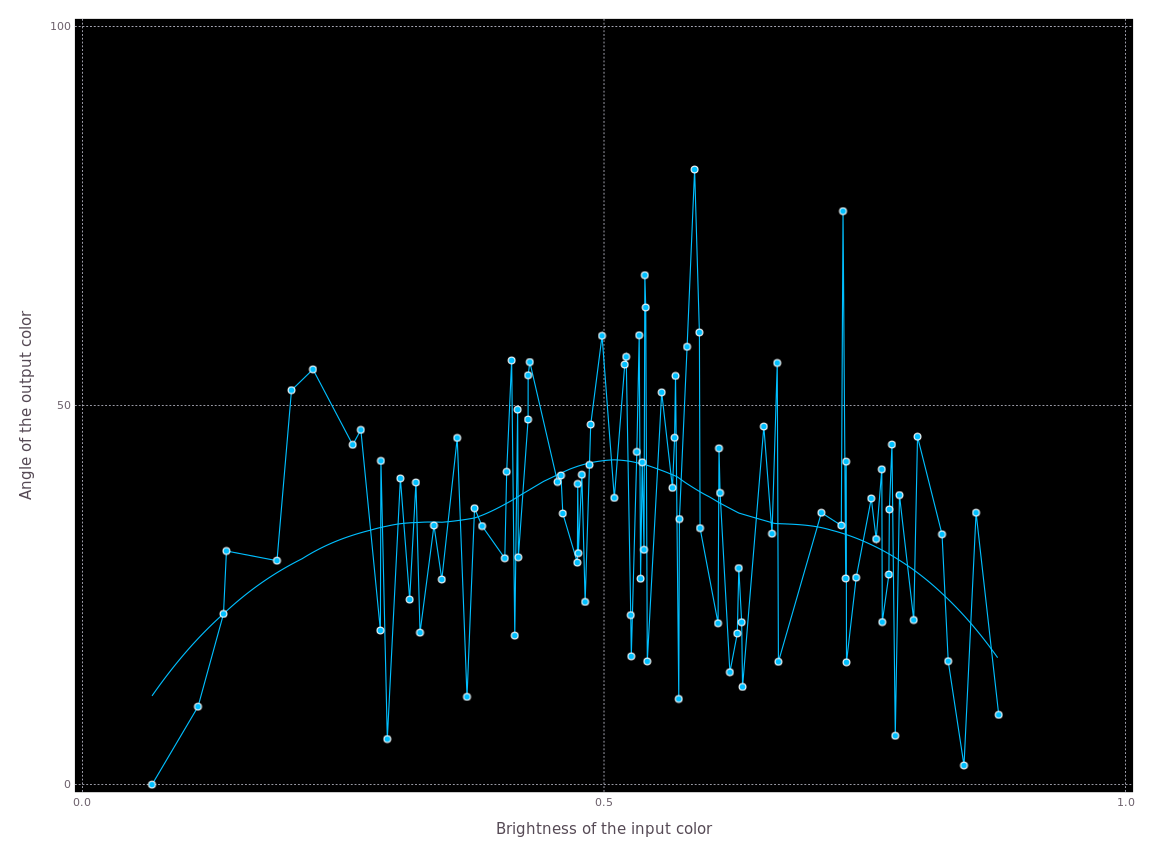
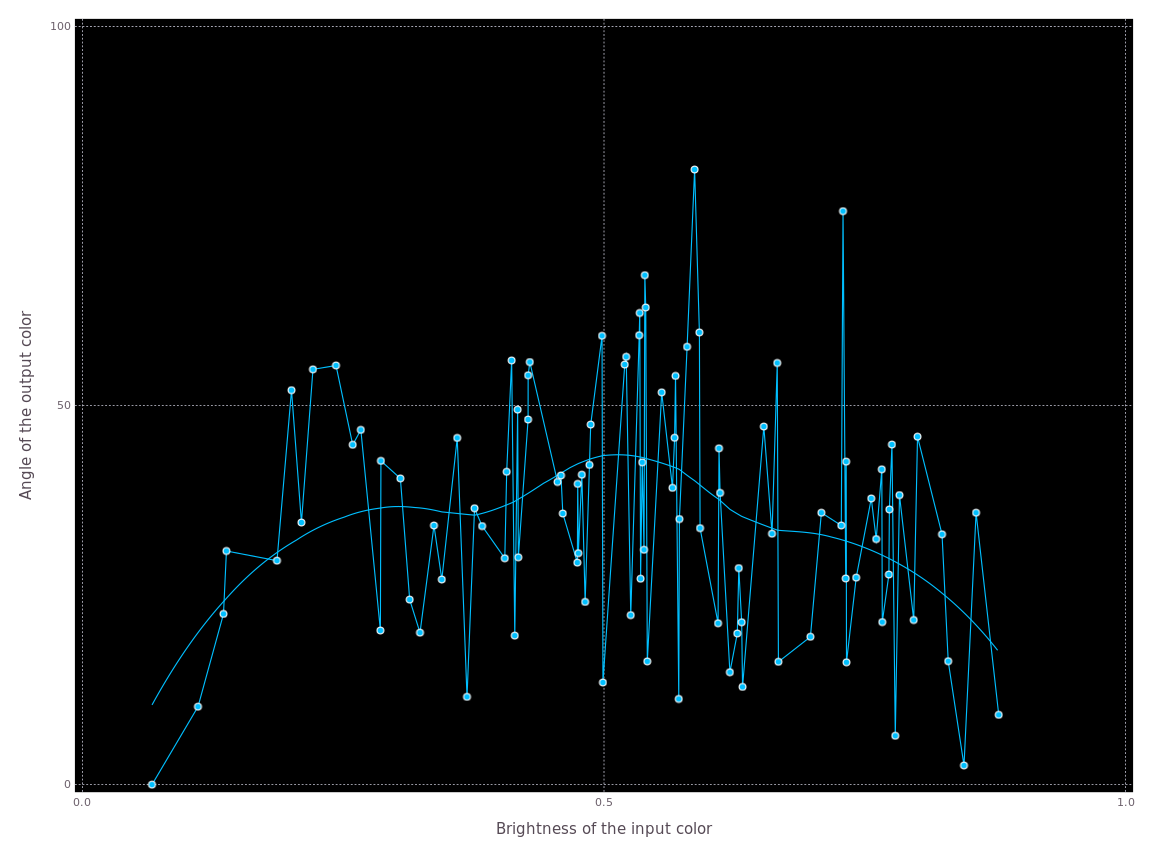
mainly math

diff --git a/HCGServer/Services/MathCore/ColorMath.cs b/HCGServer/Services/MathCore/ColorMath.cs
@@ -1,11 +1,13 @@
 using MathNet.Numerics.LinearAlgebra;
 using Microsoft.Extensions.Logging;
+using System.Collections.Generic;
 using System.Linq;
 using System;
 
 namespace HCGServer.Services.ColorMath
 {
     using static System.Math;
+    using static System.Convert;
     public class ColorMath : IColorMath
     {
         private static Random CSP = new Random();
@@ -36,19 +38,29 @@ namespace HCGServer.Services.ColorMath
                 try {
                     double lum = V.L2Norm() / Sqrt(3.0*(Pow(255, 2)));
                     double RefAngle = (COEF[0] * Pow((lum - COEF[1]), 4)) + (COEF[2] * Pow(lum, 3)) + (COEF[3] * Pow(lum, 2)) + (COEF[4] * (lum)) + (COEF[5]);
-                    double Angle = RefAngle + (Exp(Pow((CSP.NextDouble()-0.5), 2) * -7.5) * P * SIG);
+                    double Angle = 0;
 
-                    Vector<double> Axis = Vector<double>.Build.Dense(3);
+                    Matrix<double> ROMA = Matrix<double>.Build.Dense(3, 3);
                     Vector<double> OV = Vector<double>.Build.Dense(3);
+                    Vector<double> Axis = Vector<double>.Build.Dense(3);
+                    bool FT = true;
+
+                    if (V.Sum(e => Abs(e)) == 0) {
+                        for (int i = 0; i < V.Count; i++) { V[i] = CSP.Next(1, 11); }
+                        V *= (1 / (Sqrt(V.Sum(e => Pow(e, 2))/10)));
+                    }
 
                     do {
-                        double theta = CSP.Next(0, 360) * CSP.NextDouble();                 //
-                        double psi = CSP.Next(0, 180) * CSP.NextDouble();                   // Generation of 
-                        Axis.At(0, (Sin(theta) * Cos(psi)));                                // a random axis 
-                        Axis.At(1, (Sin(theta) * Sin(psi)));                                //
-                        Axis.At(2, Cos(theta));                                             //
+                        Angle = RefAngle + (Exp(Pow((CSP.NextDouble()-0.5), 2) * -7.5) * P * SIG);
+                        if (FT) { Axis = V.GetOrthogonalUnitVector(); FT = false; } else {
+                            double theta = CSP.Next(0, 90) * CSP.NextDouble();                  //
+                            double psi = CSP.Next(0, 90) * CSP.NextDouble();                    // manual Generation of 
+                            Axis.At(0, (Sin(theta) * Cos(psi)));                                // a random axis 
+                            Axis.At(1, (Sin(theta) * Sin(psi)));                                //
+                            Axis.At(2, Cos(theta));                                             //
+                            FT = true;                                                          //
+                        }
 
-                        Matrix<double> ROMA = Matrix<double>.Build.Dense(3, 3);
                         ROMA[0, 0] = Cos(Angle) + (Pow(Axis[0], 2) * (1 - Cos(Angle)));                 //
                         ROMA[0, 1] = (Axis[0] * Axis[1] * (1 - Cos(Angle))) - (Axis[2] * Sin(Angle));   // X-Row
                         ROMA[0, 2] = (Axis[0] * Axis[2] * (1 - Cos(Angle))) + (Axis[1] * Sin(Angle));   // 
@@ -60,14 +72,14 @@ namespace HCGServer.Services.ColorMath
                         ROMA[2, 0] = (Axis[0] * Axis[2] * (1 - Cos(Angle))) - (Axis[1] * Sin(Angle));   // 
                         ROMA[2, 1] = (Axis[1] * Axis[2] * (1 - Cos(Angle))) + (Axis[0] * Sin(Angle));   // Z-Row
                         ROMA[2, 2] = Cos(Angle) + (Pow(Axis[2], 2) * (1 - Cos(Angle)));                 //
+
                         OV = ROMA.Multiply(V);
-                    } while(!IsCPositive(OV));
+                        OV *= OV.All(e => e < 0) ? -1 : 1;
 
-                    if (OV.Maximum() > 255.0) {
-                        OV = Normalize(OV);
-                        OV = OV.Multiply(255);
-                    }
-
+                        if (OV.Maximum() > 255.0) { OV = OV.Divide(OV.Maximum()).Multiply(255); }
+                        for (int i = 0; i < OV.Count; i++) { OV[i] = Max(0, Min(OV[i], 255)); }
+                    } while ((V.DotProduct(OV) / (V.L2Norm() * OV.L2Norm())) > 0.7);
+                    
                     return new Tuple<bool, Vector<double>>(true, OV);
                 } catch (Exception ex) {
                     _logger.LogCritical(ex.ToString());
@@ -78,33 +90,33 @@ namespace HCGServer.Services.ColorMath
                 return new Tuple<bool, Vector<double>>(false, null);
             }
         }
+    }
 
-        /// <summary>
-        /// Validation of a vector
-        /// </summary>
-        /// <param name="V"></param>
-        /// <returns></returns>
-        private bool IsCPositive(Vector<double> V)
+    public static class VectorExtensions
+    {
+        private static Random R = new Random();
+        public static Vector<double> GetOrthogonalUnitVector(this Vector<double> V)
         {
-            bool R = true;
-            for (int i = 0; i < V.Count; i++) { R = R && V[i] >= 0; }
-            return R;
-        }
+            Vector<double> OV = Vector<double>.Build.Dense(V.Count);
+            int? ONZE = null;
+            int KEN = 0;
 
-        private Vector<double> Normalize(Vector<double> V)
-        {
-            return V.Divide(V.Maximum());
-        }
+            for (int i = 0; i < V.Count; i++) {
+                if (!(V[i].Equals(0)) && (V.Count - KEN) > 1) {
+                    if (ONZE == null ) { ONZE = i; } else {
+                        OV[i] = R.Next(-10, 11);
+                        if (OV[i].Equals(0)) { OV[i] = 1; }
+                        KEN++;
+                    }
+                }
+            }
 
-        private Vector<double> GetOrthogonalVector(Vector<double> V) 
-        {
-            // int ReferenceIndex = CSP.Next(0, V.Count);
-            // double ReferenceScalar = Min((-1 + CSP.NextDouble() * CSP.Next(0, 4)), 1);
-
-            // Vector<double> OV = Vector<double>.Build.Dense(V.Count);
-            // OV[ReferenceIndex] = ReferenceScalar;
-            // return null;
-            return null;
+            if (ONZE != null) {
+                double c = 0.0;
+                for (int i = 0; i < V.Count; i++) { if (i != ONZE) { c += V[i] * OV[i]; } }
+                OV[ToInt32(ONZE)] = (c - Cos(KEN == 0 ? 45 : 90)) / (-1 * V[ToInt32(ONZE)]);
+                return (OV / OV.L2Norm());
+            } else { return null; }
         }
     }
 }

diff --git a/HCGServer/Controllers/ColorController.cs b/HCGServer/Controllers/ColorController.cs
@@ -31,7 +31,7 @@ namespace HCGServer.ApiController
                 _logger.LogWarning("Denied a Combo-Request, due to flawed input parameters!");
                 return null; 
             } else {
-                Tuple<bool, Vector<double>> RE = CMS.GetCombo(IV, 127.5);
+                Tuple<bool, Vector<double>> RE = CMS.GetCombo(IV, 255);
                 return RE.Item1 ? new List<string>() { HCS.Vector2Hex(IV), HCS.Vector2Hex(RE.Item2) } : new List<string>(2);
             }
         }
